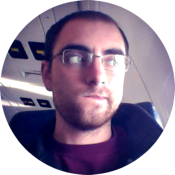
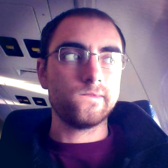
Switch to using background-image for portrait
Allows for cooler transitions and retina graphics

diff --git a/_layouts/home.html b/_layouts/home.html
@@ -10,15 +10,23 @@
   <style type="text/css">
     section {
       margin: 4em 0;
+      transition: margin .5s, font-size .5s;
     }
     #portrait {
-      width: 32%;
       margin-left: auto;
       margin-right: auto;
       text-align: center;
     }
-    #portrait img {
-      max-width: 100%;
+    #portrait #me {
+      transition: height .5s, width .5s;
+      height: 168px;
+      width: 168px;
+      margin: auto;
+      border-radius: 50%;
+      background-image: url('/img/portrait.png');
+      background-repeat: no-repeat;
+      background-position: center center;
+      background-size: 100% 100%;
     }
     #intro {
       text-align: center;
@@ -59,10 +67,20 @@
       font-size: 0.8em;
       opacity: 0.5;
     }
-    /* responsive for */
+    /* retina */
+    @media (-webkit-min-device-pixel-ratio: 2) {
+      #portrait #me {
+        background-image: url('/img/portrait@2x.png');
+      }
+    }
+    /* responsive */
     @media (max-width: 550px) {
       section {
         margin: 2em 0;
+      }
+      #portrait #me {
+        width: 120px;
+        height: 120px;
       }
       #intro {
         margin-bottom: 6em;
@@ -76,7 +94,7 @@
 </head>
 <body>
   <section id="portrait">
-    <img src="/img/portrait.png" alt="Troy Swanson">
+    <div id="me"></div>
   </section>
   <section id="intro">
     {{ content }}
